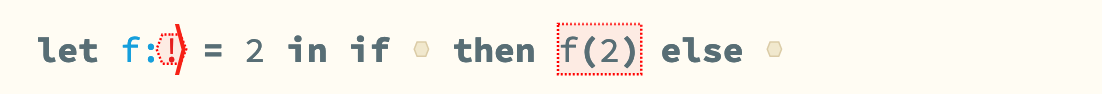
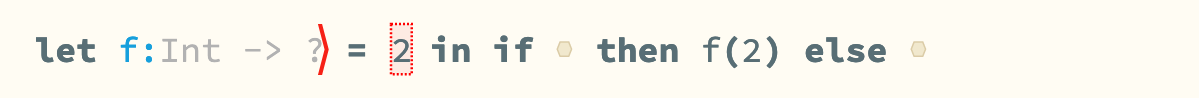
Updates from Overleaf

diff --git a/intro.tex b/intro.tex
@@ -13,20 +13,21 @@ that require static reasoning about the type and binding structure of a program 
 The problem is that when the program being edited is ill-typed, 
 these semantic services can become degraded or unavailable \cite{HazelnutSNAPL}. 
 These gaps in service are not always transient. 
-For example, a change to a type definition might result in type errors at dozens of use sites in a large program, which might take hours or days to resolve.
+For example, a change to a type definition might result in type errors at dozens of use sites in a large program, which might take hours or days to resolve, all without the full aid of these services.
 
-These service gaps are fundamentally rooted in a definitional gap: a type system defined in a conventional way, 
+These service gaps are fundamentally rooted in a definitional gap: a type system defined in the conventional way, 
 e.g. in the tradition of the typed lambda calculus and its derivatives \cite{TaplBook,pfpl},
 assigns meaning only to well-typed programs. 
 If a type error appears \emph{anywhere}, the program is formally meaningless \emph{everywhere}.
 
 This gap problem has prompted considerable practical interest in 
-(1)~\textbf{type error localization}: mechanisms for identifying the location(s) in a program that may be at fault for a type error, and 
+(1)~\textbf{type error localization}: mechanisms for identifying the location(s) in a program that explain a type error, and 
 (2) \textbf{type error recovery}: mechanisms that allow the language server to optimistically recover from a localized type error 
 and continue on to locate other errors and provide downstream semantic services, 
 ideally at every location in the program and with minimal degradation in service.
-Essentially all widely-used programming systems have some support for type error localization, and developers have been observed to attend in particular to error locations as reported in compiler error messages 
-or directly in their editor, via error markings decorating the localized code.\todo{cite}
+Essentially all widely-used programming systems have some support for type error localization, 
+reporting error locations in compiler error messages 
+or directly in the editor via markings decorating the localized errors. Developers attend to these error locations when debugging type errors.\todo{cite}
 Many systems also attempt recovery of certain services in certain situations, discussed below.
 
 However, type error localization and recovery mechanisms have developed idiosyncratically, 
@@ -34,7 +35,7 @@ often as folklore amongst language and tool implementors.
 Different type checkers or language servers \cite{langauge-servers,merlin}\todo{cite}, even for the same language, localize and recover from type errors in different ways, 
 with little in the way of unifying theory of the sort that grounds the design of modern type systems themselves.
 
-Consider, the example program in \autoref{fig:hazel-intro}, which is written in
+Consider, the example program in \autoref{fig:hazel-intro}, which is shown as presented to the user in
 this paper's version of Hazel \cite{hazel}, a typed functional dialect of Elm \cite{elm}. Hazel  
 supports local type inference, specified in the well-established bidirectional style \cite{pierce,hazelnut,BidirTyping}.
 \begin{figure}
@@ -44,11 +45,11 @@ supports local type inference, specified in the well-established bidirectional s
 \end{figure}
 
 A type checker with no support for error localization or recovery---%
-as might be written by students in an undergraduate course---%
+as students in an undergraduate course might write---%
 would simply report that this program is ill-typed, 
 i.e. a type cannot be derived for it according to Hazel's type system. 
 
-A more practical approach, and a common one even in production type checkers, 
+A more practical approach, and one common even in production type checkers, 
 is to localize the first error that causes local type inference to fail and emit an explanatory error message.
 In this example, the system might report that the variable \li{f} located on Line 2 is unbound, then stop.
 
@@ -61,22 +62,22 @@ A language server with support for type error recovery would
 it is unbound, so a second error can be simultaneously localized despite the missing information.
 
 To recover further, we might choose to also ignore the bidirectional type system's demand that the guard of the conditional be confirmed to be a boolean expression 
-(because the type of \li{f(y)} is also unknown) 
+(because the type of \li{f(y)} is also not well-defined) 
 and continue into its branches, observing that they have inconsistent types, \li{Int} and \li{Bool}. 
-There are several ways to localize this inconsistency. 
+There are several ways to localize this error. 
 One approach would be to assume, arbitrarily, that one branch is correct, localizing the error to the other branch. 
 Heuristics have been developed to help make this choice less arbitrary, e.g. 
 by observing recent editing history \todo{cite}, 
 or training a machine learning model \todo{cite}. 
-The other approach, which we take in this paper's language server for Hazel, is to localize the inconsistency to the conditional expression itself, reporting that the problem is that the branch types differ, as indicated in
-the screenshot in \autoref{fig:hazel-intro}. Hazel reports typing information, including error messages, about the term at the cursor in its status bar, so when the cursor is on the conditional expression, the message below would be shown:
+The other approach, which we take in Hazel, is to localize the inconsistency to the conditional expression itself, reporting that the problem is that the branch types differ, as indicated in
+the screenshot in \autoref{fig:hazel-intro}. When the cursor is on the conditional expression, the Hazel type inspector---a status bar that reports typing information, including type error messages, about the term at the cursor \cite{hannah1}---shows the following error:
 
-TODO
+TODO\todo{tpye inspector}
 
-Whichever localization decision is made affects how the system recovers as it proceeds into the let body, \li{x + 1}. 
-If localization had assumed that the \li{then} branch is correct, as for example the Elm type checker does, then \li{x : Bool} and an error should be reported on the left operand (though this error might mislead the programmer if this earlier localization guess was incorrect).
-If the \li{else} branch is chosen, then \li{x : Int} and an error should not be reported. 
-If instead the inconsistency is localized to the conditional expression as a whole, as in our language server, then we again confront the problem of missing type information: 
+This localization decision affects how the system recovers as it proceeds into the let body, \li{x + 1}. 
+If localization had assumed that the \li{then} branch correct, as for example in the Elm type checker, then \li{x : Bool} and an error should be reported on the left operand (though this error might mislead the programmer if this earlier localization guess was incorrect).
+If the \li{else} branch is chosen, then \li{x : Int} and an error would not be reported. 
+If the inconsistency is localized to the conditional expression as a whole, as in our language server, then we again confront the problem of missing type information: 
 \li{x} does not have a known type,
 though it \emph{is} known to be bound. 
 There is no definitive type or binding error here, based on the incomplete information available in the typing context, 
@@ -87,34 +88,32 @@ localize the type inconsistency on the right operand (the \li{+} operator is int
 
 This informal exercise demonstrates that (1) localization choices can vary, particularly with regard to whether they make \emph{ad hoc} guesses about intent;  
 (2) when combined with error recovery, localization decisions can influence downstream localization decisions; and 
-(3) error recovery mechanisms must be able to reason without complete knowledge about types and binding. 
+(3) error recovery mechanisms must be able to reason without complete knowledge about types and binding. We argue that such semantic subtleties call for a rigorous theoretical treatment of the topic.
 
 This paper develops the first comprehensive {type-theoretic formulation} of type error localization and recovery, called the \emph{marked lambda calculus} (Sec.~\ref{sec:calculus}).
 We bring together three individually well-studied ideas: (1) bidirectional typing, which specifies how type and binding information flows from 
-type annotations to expressions \cite{pierce,BidirTyping}, (2) gradual typing, which offers a principled approach for handling missing type information during recovery \cite{GradualTyping,sieksnapl}\todo{siek05?}, and 
-(3) non-empty holes, which allow us to operationalize type error localization by functioning as syntactic error marks, which an editor can display directly on-screen \cite{HazelnutPOPL}.
+type annotations to expressions \cite{pierce,BidirTyping}, (2) gradual typing, which offers a principled approach for recovering from missing type information  \cite{GradualTyping,sieksnapl}\todo{siek05?}, and 
+(3) non-empty holes, which function as syntactic membranes marking erroneous terms, which the editor can display directly on-screen \cite{HazelnutPOPL}.
 
-These ideas were previously brought together in the Hazelnut calculus \cite{HazelnutPOPL}, but its account of type error localization and recovery was partial (see Sec.~\ref{sec:related}) and tied integrally into its structure editor. 
-We resolve these problems to formally establish, with accompanying metatheory mechanized in Agda, that the marked lambda calculus has \emph{total error recovery}: \emph{every} syntactically well-formed program sketch (i.e. program structure with, optionally, empty holes) can be marked, i.e. its errors can be localized, such that the resulting program has a well-defined type and binding structure.
-We consider a number of situations where error localization decisions are subtle, including conditionals and when combining pattern matching with explicit type annotations.
+The Hazelnut calculus \cite{HazelnutPOPL} previously brought these ideas together, but its account of type error localization and recovery was partial and tied integrally into its structure editor (see Sec.~\ref{sec:calculus-hazel}). 
+We resolve these problems to formally establish, with accompanying metatheory mechanized in Agda, that the marked lambda calculus features \emph{total error recovery}: {every} syntactically well-formed program sketch (a program structure with, optionally, empty holes \cite{sketching}) can be marked, i.e. its errors can be localized, such that the resulting program has a well-defined type and binding structure.
+As we define the calculus, we consider a number of situations where error localization decisions are subtle, including conditionals and destructuring let with granular type annotations.
 
-This system, scaled up and implemented in Hazel (Sec.~\ref{sec:calculus-hazel}), solves the semantic gap problem: Hazel's semantic services, which include type hints \cite{potter1}, semantic navigation, semantic code completion \cite{potter1,blinn}, contextualized documentation \cite{potter2}, and others, 
-are available at all times and at all cursor locations, as long as the program sketch is syntactically well-formed. MENTION HAZELNUT LIVE?
+This system, scaled up and implemented in Hazel (Sec.~\ref{sec:calculus-hazel}), solves the semantic gap problem: Hazel's semantic services, which include type hints \cite{potter1}, semantic navigation, semantic code completion \cite{potter1,blinn}, contextualized documentation \cite{potter2}, and, because Hazel is able to evaluate programs with empty and non-empty holes due to prior work \cite{HazelnutLive}, even semantic services that require run-time information, like live testing, 
+are available at all times and at all cursor locations, as long as the program sketch is syntactically well-formed.
 
-Prior work has separately considered mechanisms for maintaining syntactically well-formed program sketches: manual hole insertion, syntax error recovery, and structure editing. 
-Hazel has experimented with several of these approaches, offering (1) a textual syntax, which allows the programmer to manually insert empty holes as necessary, following similar features available in GHC Haskell, Agda, Idris, and other languages, (2) a text-like structure editor that offers partial syntax error recovery (inserting holes to maintain well-formedness as long as all matching delimiters have been entered), and (3) a term-based structure editor with total syntax error recovery, i.e. a guarantee that every edit maintains syntactic well-formedness. All of these editing methods, and their analogs in other program editors, can feed into the mechanisms described in Sec.~\ref{sec:calculus}. However, as a secondary contribution, 
-we demonstrate in Sec.~\ref{sec:calculus-structured-editing} that total type error recovery can resolve the problem of undefined editing behavior in the Hazelnut term-based structure editor calculus, namely that it does not allow edits that would require marking anywhere other than the cursor. We first reformulate Hazelnut as a purely syntactic structure editor, shifting re-marking to a separate whole-program pass after each edit. We also consider a more incremental approach, where remarking is driven by knowledge of the edit location, lexical scoping, and previous types. In either case, the result is a typed structure editor calculus that solves both the syntactic and semantic gap problem, i.e. every editor state is meaningful.
+Prior work has separately considered mechanisms for maintaining syntactically well-formed program sketches during development: manual hole insertion (as is featured in Agda \cite{agda}, GHC Haskell \cite{haskell-holes}, Idris \cite{idris-holes}, and other languages), syntax error recovery \cite{error-reovery}, and structure editing \cite{HazelnutPOPL}. 
+Hazel has experimented with several of these approaches, offering (1) a textual syntax, which allows the programmer to manually insert empty holes as necessary, (2) a text-like structure editor that offers partial syntax error recovery (inserting holes to maintain well-formedness as long as all matching delimiters have been placed) \cite{tylr}, and (3) a term-based structure editor with total syntax error recovery, i.e. a guarantee that every edit maintains syntactic well-formedness \cite{HazelnutPOPL}\todo{popl17}. The choice of editing method is independent of the mechanisms described in Sec.~\ref{sec:calculus}. However, as a secondary contribution, 
+we demonstrate in Sec.~\ref{sec:calculus-structured-editing} that total type error recovery can resolve the problem of undefined editing behavior in the Hazelnut term-based structure editor calculus, which arise because the system as formulated cannot handle edits that would require marking anywhere other than at the cursor. We discuss two reformulations of Hazelnut, first as an untyped structure editor where full re-marking occurs after each edit, then as a bidirectionally typed structure editor where re-marking occurs only where necessary based on the edit location and the type and binding structure.
 
-Local type inference makes a good foundation for type error localization and comprehensible error message generation because it specifies clear, local information flows. Languages with non-local, constraint-based type inference gather constraints from all locations in a program, which is often helpful, but these systems are also notorious for complicating type error localization and recovery, because inconsistencies can flow from any number of locations in the program,
-and it is not clear how to recover when conflicting constraints are found. 
+Local type inference pairs well with type error localization and recovery because information flows systematically down the tree, leading to predictable decisions (as observed also by \cite{pierce}). Languages with constraint-based type inference gather constraints from all relevant locations in a program. This approach is powerful, but it is also notorious for complicating type error localization and recovery, because inconsistencies can arise through a confluence of constraints originating from any number of locations in the program. 
 Complex techniques, e.g. based on machine learning or weighting, are needed to heuristically localize errors to expressions. 
-In Hazel, we have taken a hybrid approach: 
-we generate constraints for each unknown type that appears in the program explicitly (i.e. type hole) and each unknown type generated internally during \emph{after} bidirectional type error localization and recovery. We develop a ? unification algorithm that can then generate possible hole fillings
-for each of thes...
-if the hole can be uniquely solved, then we suggest the solution to the programmer. 
-if conflicting constraints arise, then we localize this problem directly to type holes, rather 
-than attempting to localize the problem to expressions. 
-The user can select from different partial fillings -- the bidirectional system can then shift the error to relevant expressions in a more principled way.
-Until a choice is made, the system continues to recover gradually as explained in sec 2.
-Sec. 4.\todo{clean up text}
+In Sec.~\ref{sec:thi}\todo{sec}, we describe how we blend local and constraint-based type inference via type holes in Hazel. In particular, 
+we generate constraints for each type hole that appears in the program explicitly or that is  generated internally during the bidirectional type error localization and recovery process. 
+We develop a unification algorithm that can recover from inconsistent constraints by maintaining possible type hole fillings. For holes that can be uniquely solved, we suggest the solution. 
+If conflicting constraints arise, we localize the error directly to the relevant type holes, rather 
+than attempting to localize it to expressions. 
+The user can select from different partial fillings, which fills the type hole. From there, the bidirectional system shifts the error to relevant expressions.
+Until a choice is made, the system continues to recover gradually, as covered in Sec.~\ref{sec:calculus}.
+
 

diff --git a/typeholeinference.tex b/typeholeinference.tex
@@ -21,13 +21,13 @@ In Figure \ref{fig:editor_holes}, the user has written an incomplete program whe
 \caption{Incomplete program with partial hole filling suggestion}
 \label{fig:editor_holes}
 \end{figure}
-Figure \ref{fig:editor_conflict} demonstrates visual feedback shown when a type hole is \textit{unsolvable}. The type hole is highlighted in red and surrounded by a dotted line, just like expressions wrapped in error holes. The user is informed via the Cursor Inspector that the type hole cannot be solved due to conflicting information from constraints. Figure \ref{fig:editor_conflict} illustrates a mock-up of the editor highlighting the source of conflicting constraints the user hovers over.
+Figure \ref{fig:editor_conflict} demonstrates visual feedback shown when a type hole is \textit{unsolvable}. The type hole is highlighted in red and surrounded by a dotted line, just like expressions wrapped in error holes. The user is informed via the Cursor Inspector that the type hole cannot be solved due to conflicting information from constraints. Figure \ref{fig:editor_conflict} contains a mock-up of the editor temporarily filling the type hole when the user hovers over a constraint, deferring to bidirectional error localization.
 \begin{figure}[H]
 \includegraphics[width=9cm]{images/example_conflict.png}
 \includegraphics[width=9cm]{images/example_conflict_CI.png}
 \includegraphics[width=9cm]{images/example_conflict_hover.png}
 \includegraphics[width=9cm]{images/example_conflict_hover_CI.png}
-\caption{User types '2' and error is localized to f(2) type hole [mock-up]}
+\caption{User types '2' and error is localized to type hole. Error is localized to '2' on hover [mock-up]}
 \label{fig:editor_conflict}
 \end{figure}
 % \begin{figure}[H]

diff --git a/supplement/constraintRules.tex b/supplement/constraintRules.tex
@@ -192,14 +192,14 @@
 
 \begin{figure}[htb]
 \raggedright
-    \judgbox{\ensuremath{\matchedPair{\TMV}{\TMV_1}{\TMV_2} ~|~ C}}
+    \judgbox{\ensuremath{\matchedProd{\TMV}{\TMV_1}{\TMV_2} ~|~ C}}
     \begin{mathpar}
     \judgment{ }{
-      \matchedPair{\TUnknown^p}{\TUnknown}{\TUnknown} ~|~ \{ \TUnknown^p \approx \TPair{\TUnknown^{\times_{L}(p)}}{\TUnknown^{\times_{R}(p)}} \}
+      \matchedProd{\TUnknown^p}{\TUnknown}{\TUnknown} ~|~ \{ \TUnknown^p \approx \TProd{\TUnknown^{\times_{L}(p)}}{\TUnknown^{\times_{R}(p)}} \}
     }{TMPHole-C}
 
     \judgment{ }{
-      \matchedPair{\TPair{\TMV_1}{\TMV_2}}{\TMV_1}{\TMV_2} ~|~ \{\}
+      \matchedProd{\TProd{\TMV_1}{\TMV_2}}{\TMV_1}{\TMV_2} ~|~ \{\}
     }{TMPProd-C}
 \end{mathpar}
 
